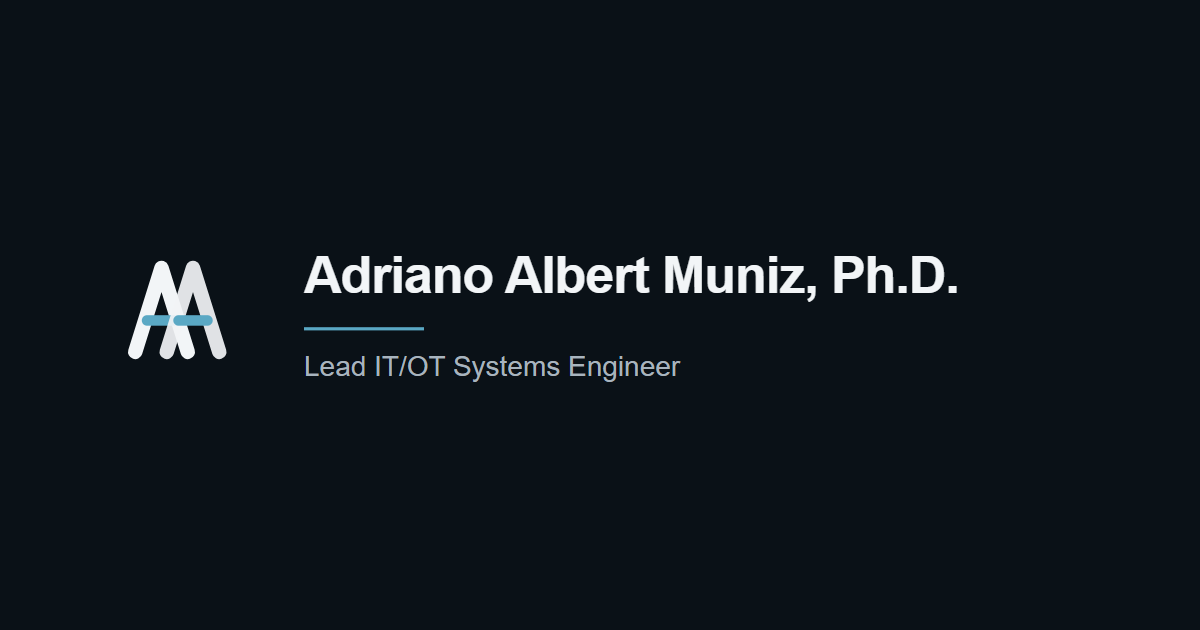
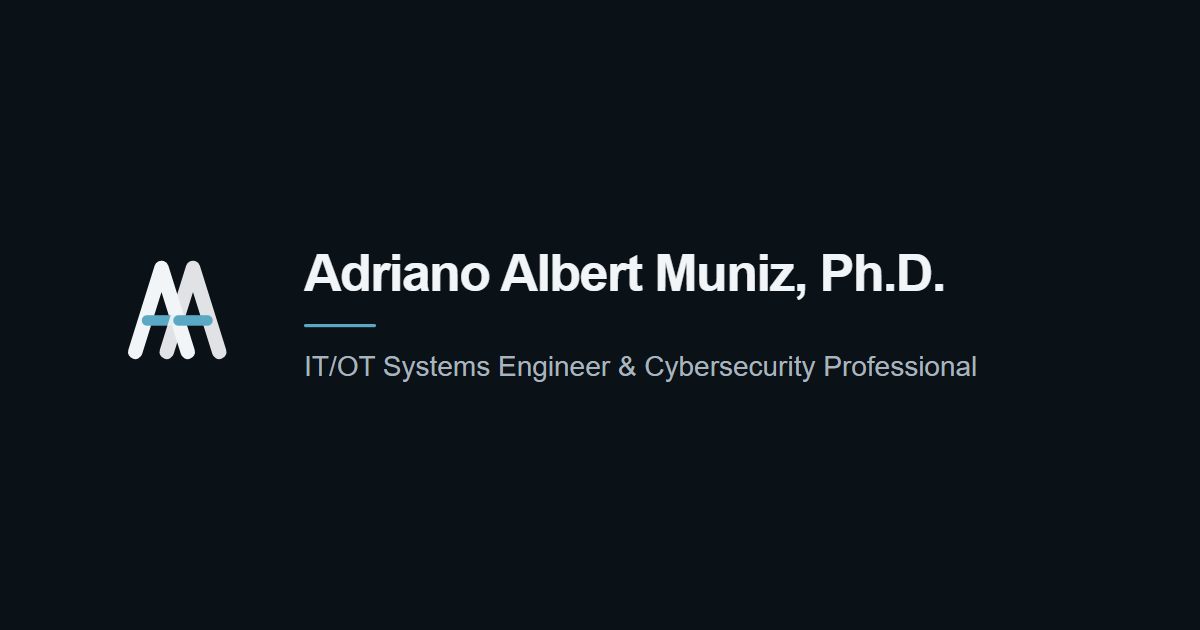
Unify public title and refresh CEH/CND certification badges.
Align home, chrome, About, and OG metadata on IT/OT Systems Engineer & Cybersecurity Professional, and ship aligned circular CEH/CND logos with the updated VerifyBadge link.

Changed region(s): [[0.2467, 0.3921, 0.8017, 0.4825], [0.2467, 0.5127, 0.8325, 0.6032]]

diff --git a/scripts/og-compose.html b/scripts/og-compose.html
@@ -1,0 +1,81 @@
+<!DOCTYPE html>
+<html lang="en">
+<head>
+  <meta charset="utf-8" />
+  <title>OG compose</title>
+  <link rel="preconnect" href="https://fonts.googleapis.com" />
+  <link rel="preconnect" href="https://fonts.gstatic.com" crossorigin />
+  <link href="https://fonts.googleapis.com/css2?family=IBM+Plex+Sans:wght@400;500&family=Syne:wght@700&display=swap" rel="stylesheet" />
+  <style>
+    * { box-sizing: border-box; margin: 0; padding: 0; }
+    html, body {
+      width: 1200px;
+      height: 630px;
+      overflow: hidden;
+      background: #0a1117;
+    }
+    .card {
+      width: 1200px;
+      height: 630px;
+      display: flex;
+      align-items: center;
+      gap: 48px;
+      padding: 0 88px;
+      background: #0a1117;
+    }
+    .mark {
+      width: 168px;
+      height: 168px;
+      flex-shrink: 0;
+      border-radius: 36px;
+      display: block;
+    }
+    .copy {
+      display: flex;
+      flex-direction: column;
+      align-items: flex-start;
+      min-width: 0;
+      gap: 0;
+    }
+    h1 {
+      font-family: Syne, sans-serif;
+      font-weight: 700;
+      font-size: 52px;
+      line-height: 1.1;
+      letter-spacing: -0.03em;
+      color: #f2f5f7;
+    }
+    .accent {
+      width: 72px;
+      height: 3px;
+      margin: 22px 0 20px;
+      background: #5aa8c4;
+      border-radius: 999px;
+    }
+    .role {
+      font-family: "IBM Plex Sans", sans-serif;
+      font-weight: 400;
+      font-size: 28px;
+      line-height: 1.35;
+      color: #a8b4be;
+      max-width: 760px;
+    }
+  </style>
+</head>
+<body>
+  <div class="card">
+    <img
+      class="mark"
+      src="/images/brand/aa-icon-v1-geometric.svg"
+      width="168"
+      height="168"
+      alt=""
+    />
+    <div class="copy">
+      <h1>Adriano Albert Muniz, Ph.D.</h1>
+      <div class="accent" aria-hidden="true"></div>
+      <p class="role">IT/OT Systems Engineer &amp; Cybersecurity Professional</p>
+    </div>
+  </div>
+</body>
+</html>

diff --git a/src/app/layout.tsx b/src/app/layout.tsx
@@ -18,12 +18,12 @@ const ibmPlexSans = IBM_Plex_Sans({
 });
 
 const siteDescription =
-  "Portfolio of Adriano Albert Muniz, Ph.D. — Lead IT/OT Systems Engineer specializing in cybersecurity, computer networks research, and industrial automation.";
+  "Portfolio of Adriano Albert Muniz, Ph.D. — IT/OT Systems Engineer and Cybersecurity Professional specializing in industrial automation, computer networks, and cybersecurity.";
 
 export const metadata: Metadata = {
   metadataBase: new URL("https://www.adrianoalbert.com"),
   title: {
-    default: "Adriano Albert Muniz, Ph.D. | Lead IT/OT Systems Engineer",
+    default: "Adriano Albert Muniz, Ph.D. | IT/OT Systems Engineer & Cybersecurity Professional",
     template: "%s | Adriano Albert Muniz",
   },
   description: siteDescription,
@@ -32,20 +32,20 @@ export const metadata: Metadata = {
     locale: "en_US",
     url: "https://www.adrianoalbert.com",
     siteName: "Adriano Albert Muniz",
-    title: "Adriano Albert Muniz, Ph.D. | Lead IT/OT Systems Engineer",
+    title: "Adriano Albert Muniz, Ph.D. | IT/OT Systems Engineer & Cybersecurity Professional",
     description: siteDescription,
     images: [
       {
         url: "/og-image.png",
         width: 1200,
         height: 630,
-        alt: "Adriano Albert Muniz, Ph.D. — Lead IT/OT Systems Engineer",
+        alt: "Adriano Albert Muniz, Ph.D. — IT/OT Systems Engineer & Cybersecurity Professional",
       },
     ],
   },
   twitter: {
     card: "summary_large_image",
-    title: "Adriano Albert Muniz, Ph.D. | Lead IT/OT Systems Engineer",
+    title: "Adriano Albert Muniz, Ph.D. | IT/OT Systems Engineer & Cybersecurity Professional",
     description: siteDescription,
     images: ["/og-image.png"],
   },

diff --git a/src/app/page.tsx b/src/app/page.tsx
@@ -6,10 +6,10 @@ import { SiX } from "react-icons/si";
 
 export const metadata: Metadata = {
   title: {
-    absolute: "Adriano Albert Muniz, Ph.D. | Lead IT/OT Systems Engineer",
+    absolute: "Adriano Albert Muniz, Ph.D. | IT/OT Systems Engineer & Cybersecurity Professional",
   },
   description:
-    "Lead IT/OT Systems Engineer with a Ph.D. in computer networks — cybersecurity, industrial automation, and professional training.",
+    "IT/OT Systems Engineer and Cybersecurity Professional with a Ph.D. in computer networks — industrial automation and professional training.",
 };
 
 export default function Home() {
@@ -29,8 +29,10 @@ export default function Home() {
         <div className="brand-mark-accent" aria-hidden="true" />
         <h1>Adriano Albert Muniz, Ph.D.</h1>
         <p className="subtitle">
-          <span className="subtitle-line">Lead IT/OT Systems Engineer |</span>
-          <span className="subtitle-line">Experienced in Computer Networks Research</span>
+          <span className="subtitle-line">IT/OT Systems Engineer &amp; Cybersecurity Professional</span>
+          <span className="subtitle-tagline">
+            Engineering secure and reliable industrial systems through expertise in IT/OT, computer networks, and cybersecurity.
+          </span>
         </p>
         <nav className="main-nav" aria-label="Primary">
           <Link href="/about">About</Link>

diff --git a/src/app/styles/Card.module.css b/src/app/styles/Card.module.css
@@ -725,6 +725,8 @@
   margin: 0;
   font-size: 1.1rem;
   color: #e2e8f0;
+  flex: 1;
+  min-width: 0;
 }
 
 .certDetails {
@@ -742,19 +744,30 @@
 }
 
 .certLogo {
-  width: 90px;
-  height: 90px;
+  width: 115px;
+  height: auto;
+  max-height: 115px;
   object-fit: contain;
+  object-position: left center;
+  flex-shrink: 0;
 }
 
 .smallLogo {
-  width: 90px;
+  width: 115px;
   height: 90px;
+  max-height: 90px;
 }
 
 .largeLogo {
-  width: 90px;
-  height: 90px;
+  width: 115px;
+  height: 100px;
+  max-height: 100px;
+}
+
+.circularLogo {
+  width: 115px;
+  height: 115px;
+  max-height: 115px;
 }
 
 .certInfo {
@@ -1013,7 +1026,7 @@
   border: 1px solid var(--surface-border, rgba(90, 168, 196, 0.2));
   border-radius: 12px;
   overflow-x: auto;
-  overflow-y: hidden;
+  overflow-y: visible;
   -webkit-overflow-scrolling: touch;
   overscroll-behavior-x: contain;
   min-width: 0;

diff --git a/src/app/certifications/page.tsx b/src/app/certifications/page.tsx
@@ -86,9 +86,11 @@ export default async function CertificationsPage() {
                     src={cert.image}
                             alt={`${cert.title} logo`} 
                             className={`${styles.certLogo} ${
-                              cert.title.includes('CompTIA Security Analytics Professional') 
-                                ? styles.smallLogo 
-                                : styles.largeLogo
+                              cert.title.includes('CompTIA Security Analytics Professional')
+                                ? styles.smallLogo
+                                : /\/(cnd|ceh)([.-]|$)/i.test(cert.image || '')
+                                  ? styles.circularLogo
+                                  : styles.largeLogo
                             }`}
                           />
                 )}

diff --git a/src/app/globals.css b/src/app/globals.css
@@ -165,11 +165,14 @@ body > * {
 }
 
 .site-brand-role {
-  font-size: 0.78rem;
+  font-size: 0.72rem;
   color: var(--text-muted);
-  white-space: nowrap;
+  line-height: 1.25;
+  white-space: normal;
   overflow: hidden;
-  text-overflow: ellipsis;
+  display: -webkit-box;
+  -webkit-line-clamp: 2;
+  -webkit-box-orient: vertical;
 }
 
 .site-nav {
@@ -694,6 +697,18 @@ body > * {
   line-height: inherit;
   color: inherit;
   white-space: nowrap;
+}
+
+.subtitle-tagline {
+  display: block;
+  margin-top: 0.55em;
+  font-size: clamp(0.92rem, 1.7vw, 1.05rem) !important;
+  font-weight: 400;
+  line-height: 1.5;
+  color: var(--text-muted, #a8b4be);
+  white-space: normal;
+  text-align: center;
+  max-width: 36rem;
 }
 
 @media (max-width: 380px) {

diff --git a/src/app/about/page.tsx b/src/app/about/page.tsx
@@ -12,7 +12,7 @@ import HonorsAwardsSection from '../components/HonorsAwardsSection'
 export const metadata: Metadata = {
   title: 'About',
   description:
-    'Lead IT/OT Systems Engineer with 10+ years in IT/OT, global OT project experience, and cybersecurity countermeasures for delivered systems.',
+    'IT/OT Systems Engineer and Cybersecurity Professional with 10+ years in IT/OT, global OT project experience, and cybersecurity countermeasures for delivered systems.',
 }
 
 export default async function About() {

diff --git a/src/app/components/SiteHeader.tsx b/src/app/components/SiteHeader.tsx
@@ -39,7 +39,7 @@ export default function SiteHeader() {
           />
           <span className="site-brand-text">
             <span className="site-brand-name">Adriano Albert Muniz</span>
-            <span className="site-brand-role">Lead IT/OT Systems Engineer</span>
+            <span className="site-brand-role">IT/OT Systems Engineer &amp; Cybersecurity Professional</span>
           </span>
         </Link>
 

diff --git a/src/app/components/SiteFooter.tsx b/src/app/components/SiteFooter.tsx
@@ -17,7 +17,7 @@ export default function SiteFooter() {
           <Link href="/" className="site-footer-home">
             Adriano Albert Muniz, Ph.D.
           </Link>
-          <p>Lead IT/OT Systems Engineer</p>
+          <p>IT/OT Systems Engineer &amp; Cybersecurity Professional</p>
         </div>
 
         <nav className="site-footer-nav" aria-label="Footer">

diff --git a/content/about/about.md b/content/about/about.md
@@ -2,7 +2,7 @@
 title: About Me
 ---
 
-Lead IT/OT Systems Engineer with more than 10 years of experience designing, deploying, and supporting information and operational technology environments.
+IT/OT Systems Engineer and Cybersecurity Professional with more than 10 years of experience designing, deploying, and supporting information and operational technology environments.
 
 Work on OT projects has spanned customers worldwide. Over the past five years, that work has expanded into cybersecurity for IT/OT systems — bringing security thinking into environments where availability and safety matter most.
 

diff --git a/content/certifications/certified-network-defender.md b/content/certifications/certified-network-defender.md
@@ -3,5 +3,5 @@ title: 'EC-Council Certified Network Defender (CND)'
 badge: 'https://aspen.eccouncil.org/VerifyBadge?type=certification&a=cdE6IZxLyMGjNfWmv9eSjsAqZ1qUonVc2yNKqQyD9P0='
 issued: 'March 22, 2026'
 expires: 'April 01, 2029'
-image: '/images/certifications/ec-council-cnd-certified.png'
+image: '/images/certifications/cnd.png'
 ---

diff --git a/content/certifications/certified-ethical-hacker.md b/content/certifications/certified-ethical-hacker.md
@@ -3,5 +3,5 @@ title: 'EC-Council Certified Ethical Hacker (CEH)'
 badge: 'https://aspen.eccouncil.org/VerifyBadge?type=certification&a=FrQ11tnAhMTBxoemN/x550wH7N3X/pHHLPgJT4TPMtQ='
 issued: 'April 05, 2026'
 expires: 'May 01, 2029'
-image: '/images/certifications/ec-council-ceh-certified.png'
+image: '/images/certifications/ceh.png'
 ---
